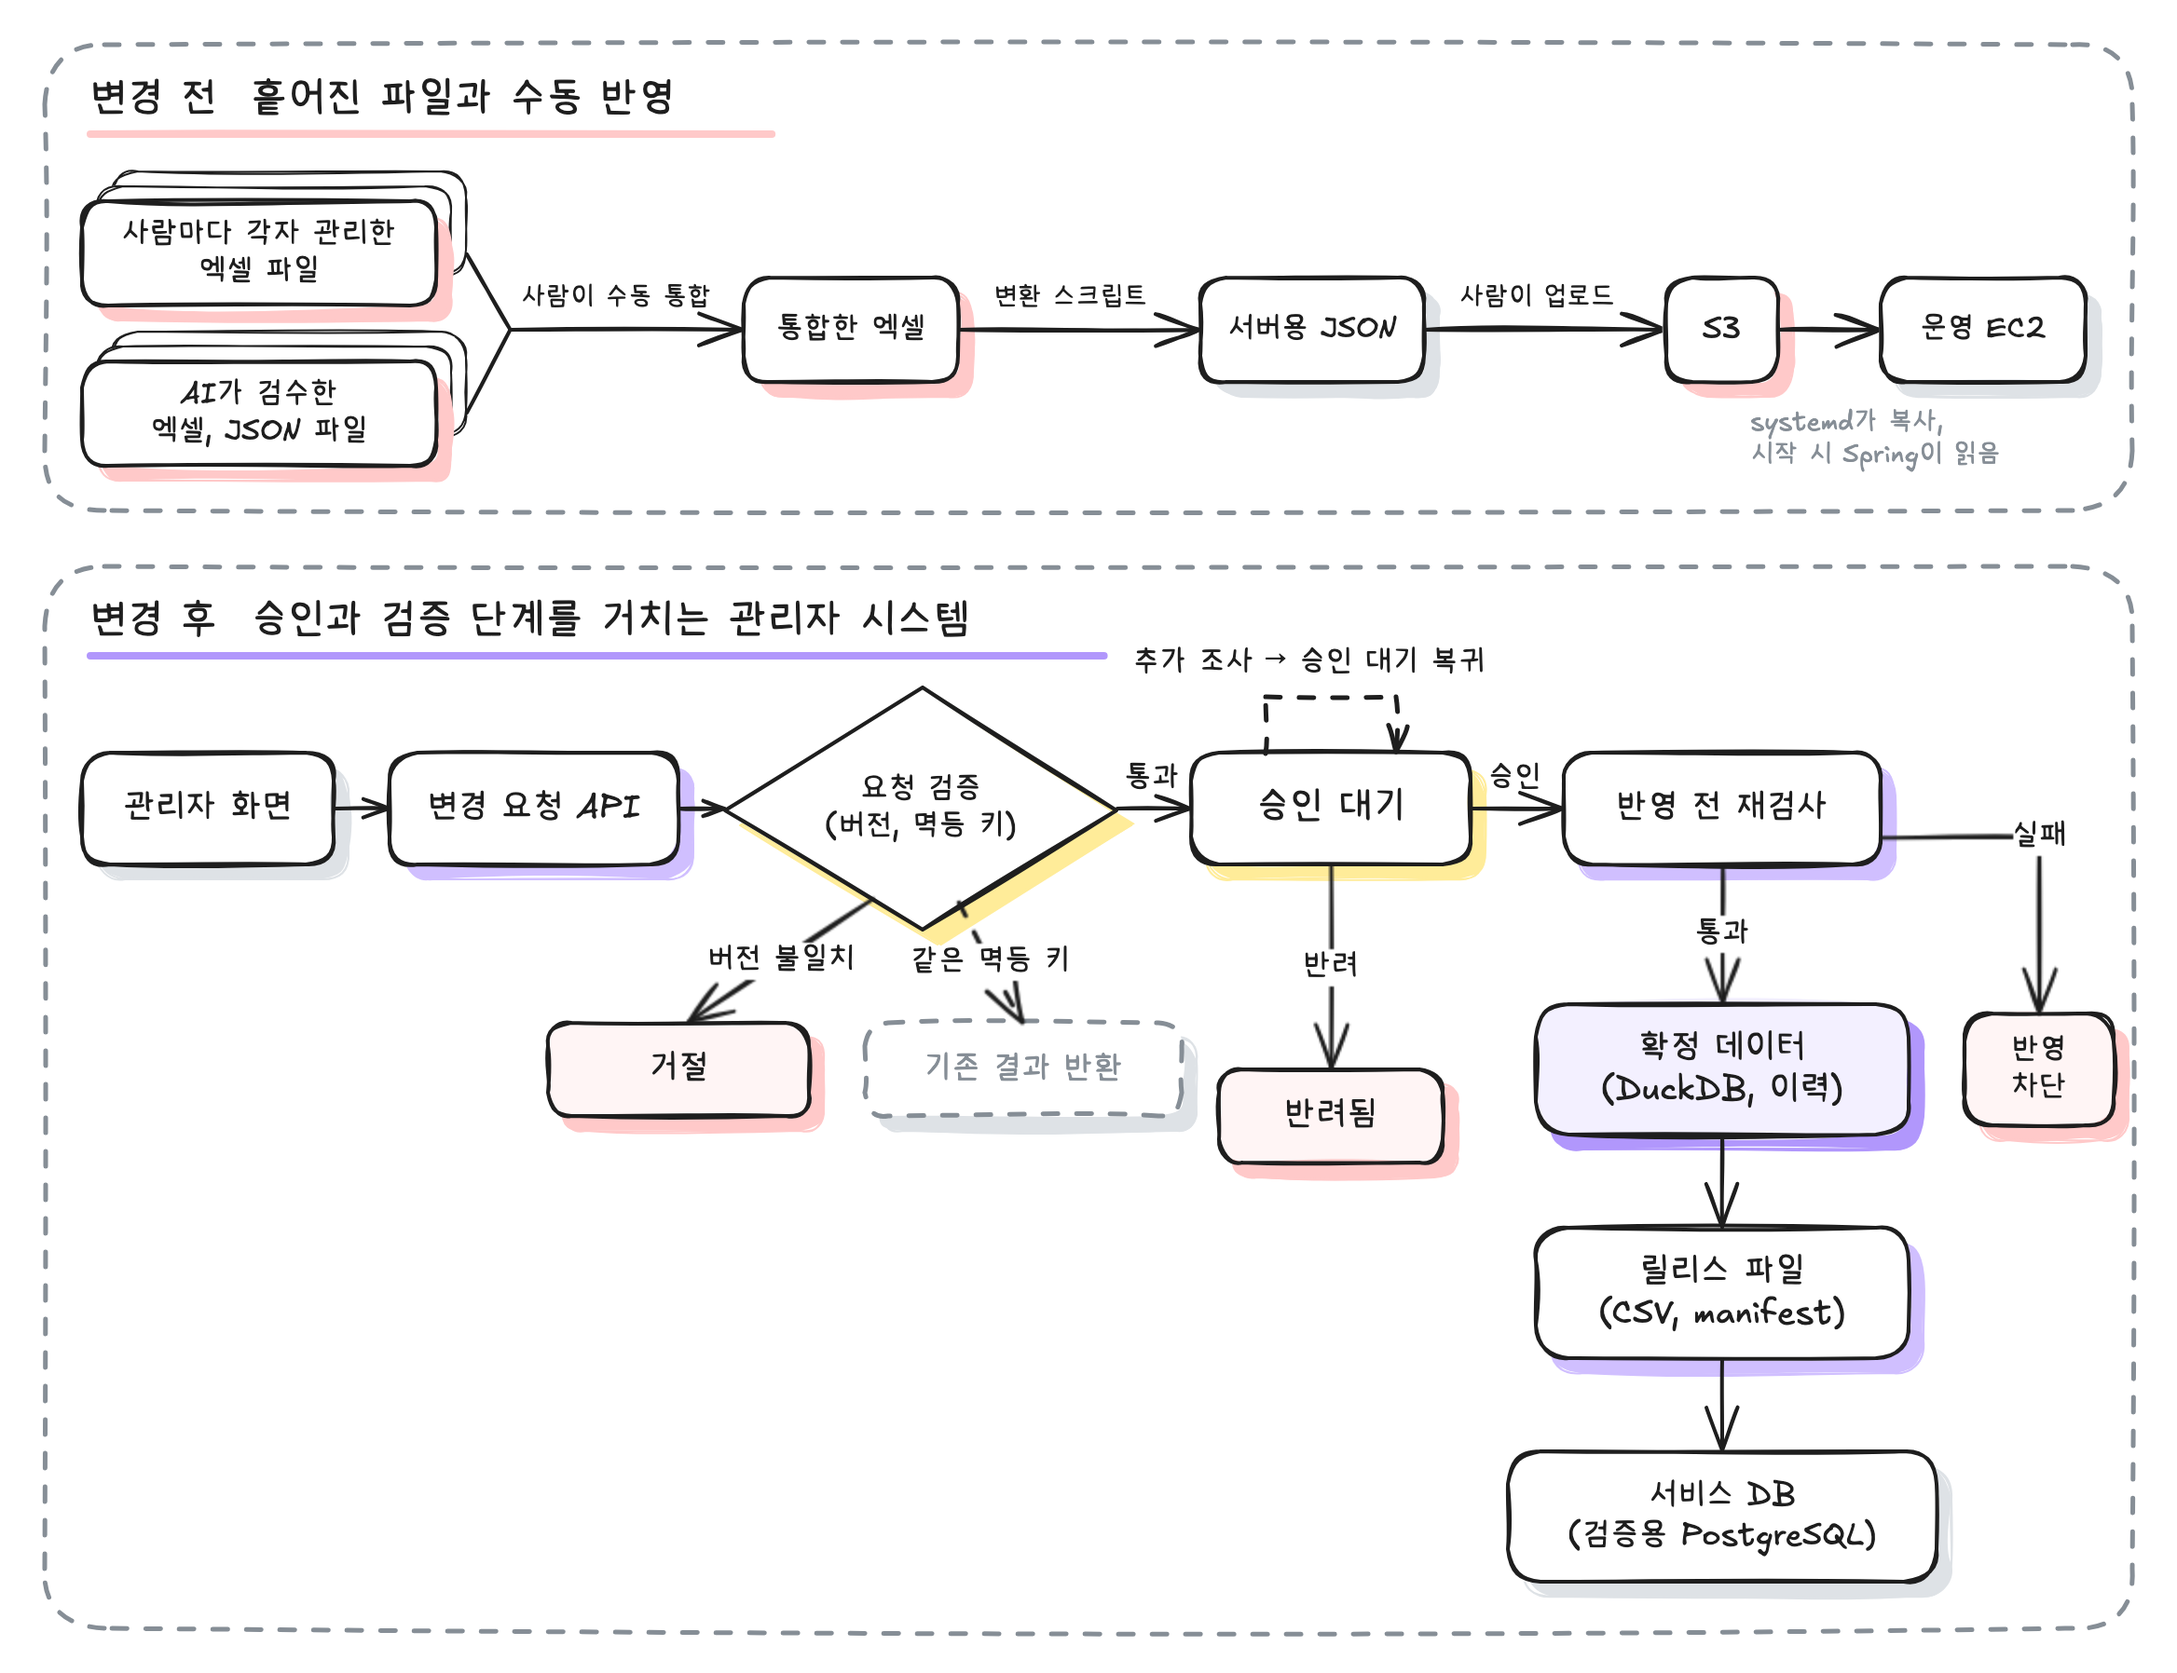
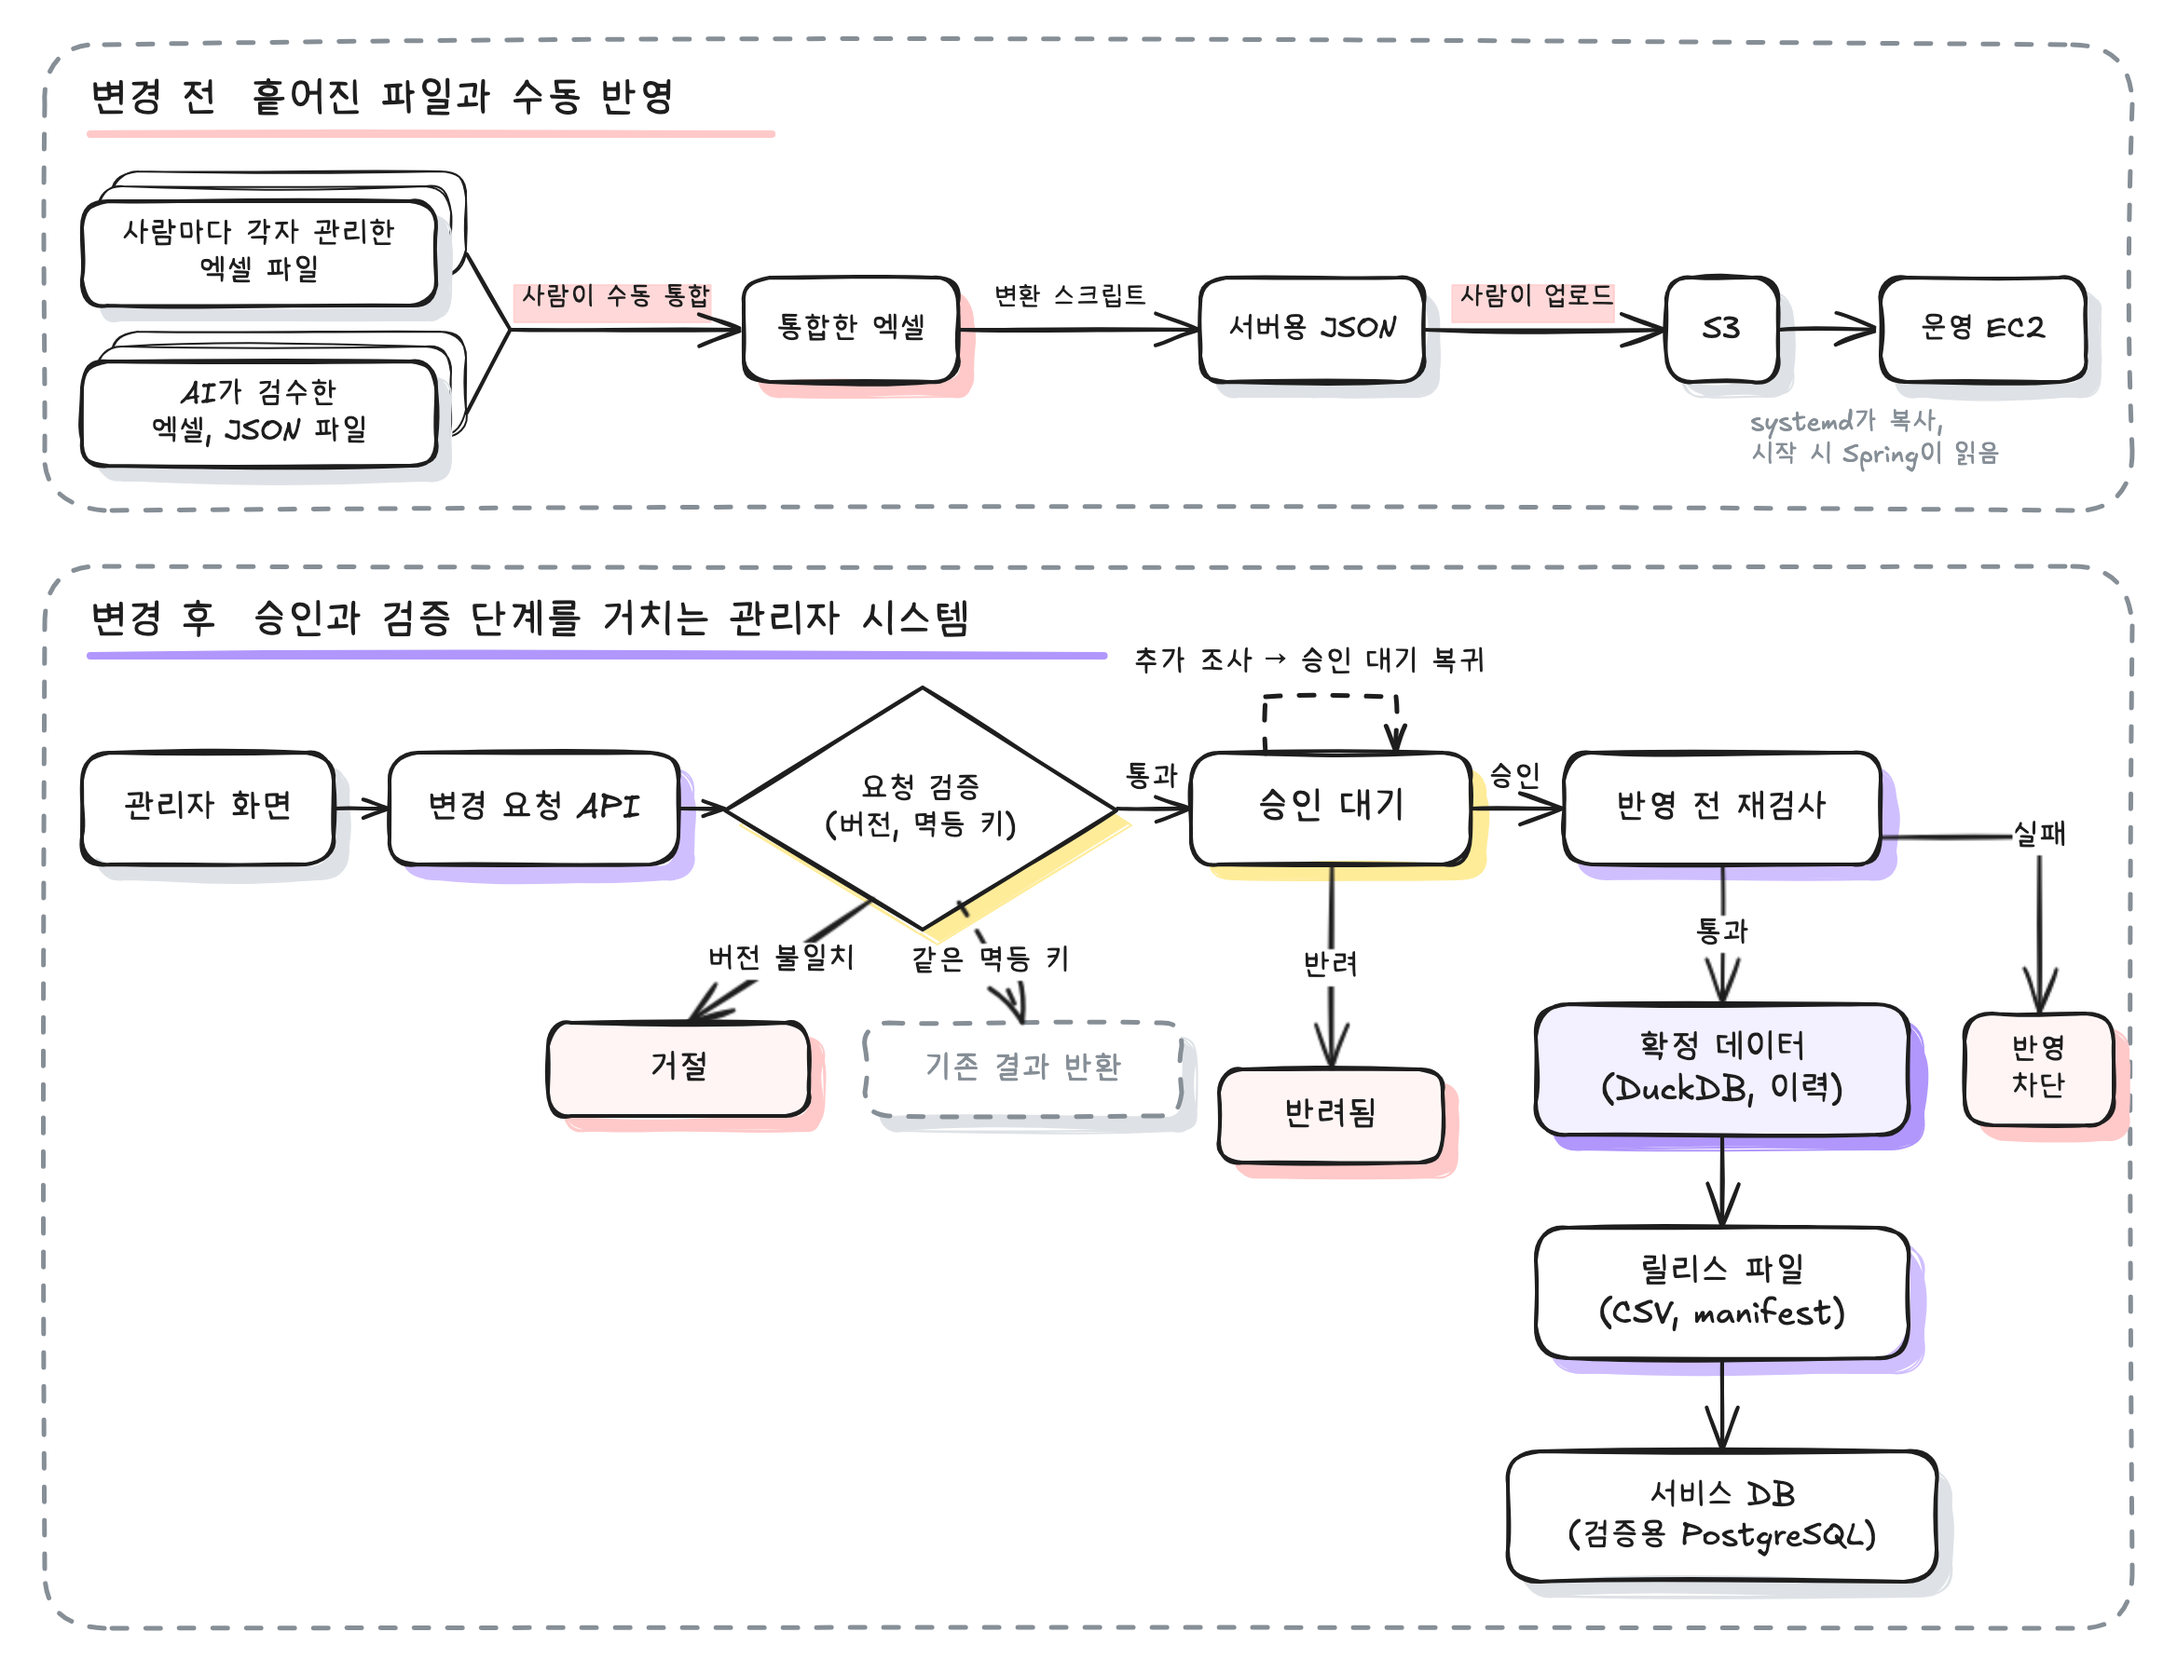
portfolio: 사례 01 변경 전 그림 강조를 수동 작업 주석으로 옮김

diff --git a/index.html b/index.html
@@ -56,8 +56,8 @@
   <h3 id="case-title-1">성분 데이터 관리 개선: 정적 파일 방식에서 승인 기반 관리자 시스템으로 전환</h3>
   <p class="case-deck">정적 파일 수동 관리로 생기던 데이터 불일치와 검증 없는 반영을 막기 위해 승인 기반 관리자 시스템을 구축했습니다. API 기반 검증과 승인 절차를 도입해, 검증된 데이터만 서비스 DB에 반영되는 구조를 마련했습니다.</p>
   <figure>
-    <div class="figure-heading"><p class="figure-title">관리 방식 변경 전후</p><a href="assets/diagrams/ingredient-admin.png?v=b90b3118" data-diagram aria-label="관리 방식 변경 전후 크게 보기">크게 보기 ↗</a></div>
-    <a class="diagram-link" href="assets/diagrams/ingredient-admin.png?v=b90b3118" data-diagram aria-label="관리 방식 변경 전후 이미지 확대"><img class="diagram-image" src="assets/diagrams/ingredient-admin.png?v=b90b3118" width="2336" height="1796" alt="변경 전에는 사람마다 각자 관리한 엑셀 파일과 AI가 검수한 엑셀, JSON 파일을 사람이 수동으로 통합하고, 통합한 엑셀을 변환 스크립트로 서버용 JSON으로 바꿔 사람이 S3에 올리면, 운영 EC2가 시작할 때 systemd가 복사하고 Spring이 읽었다. 변경 후에는 관리자 화면에서 변경 요청 API로 요청하면 요청 검증이 버전과 멱등 키를 확인해, 버전이 다르면 거절하고 같은 멱등 키면 기존 결과를 돌려준다. 통과한 요청은 승인 대기로 가서 반려되거나, 추가 조사 뒤 다시 대기하거나, 승인된다. 승인되면 반영 전 재검사를 거치고, 실패하면 반영을 막고 통과하면 확정 데이터(DuckDB, 이력)에 반영한 뒤 CSV와 manifest 릴리스 파일을 만들어 검증용 PostgreSQL 서비스 DB에 넣는다" loading="lazy" decoding="async"></a>
+    <div class="figure-heading"><p class="figure-title">관리 방식 변경 전후</p><a href="assets/diagrams/ingredient-admin.png?v=772bfeaa" data-diagram aria-label="관리 방식 변경 전후 크게 보기">크게 보기 ↗</a></div>
+    <a class="diagram-link" href="assets/diagrams/ingredient-admin.png?v=772bfeaa" data-diagram aria-label="관리 방식 변경 전후 이미지 확대"><img class="diagram-image" src="assets/diagrams/ingredient-admin.png?v=772bfeaa" width="2336" height="1796" alt="변경 전에는 사람마다 각자 관리한 엑셀 파일과 AI가 검수한 엑셀, JSON 파일을 사람이 수동으로 통합하고, 통합한 엑셀을 변환 스크립트로 서버용 JSON으로 바꿔 사람이 S3에 올리면, 운영 EC2가 시작할 때 systemd가 복사하고 Spring이 읽었다. 변경 후에는 관리자 화면에서 변경 요청 API로 요청하면 요청 검증이 버전과 멱등 키를 확인해, 버전이 다르면 거절하고 같은 멱등 키면 기존 결과를 돌려준다. 통과한 요청은 승인 대기로 가서 반려되거나, 추가 조사 뒤 다시 대기하거나, 승인된다. 승인되면 반영 전 재검사를 거치고, 실패하면 반영을 막고 통과하면 확정 데이터(DuckDB, 이력)에 반영한 뒤 CSV와 manifest 릴리스 파일을 만들어 검증용 PostgreSQL 서비스 DB에 넣는다" loading="lazy" decoding="async"></a>
   </figure>
   <div class="psr">
     <div>

diff --git a/scripts/excalidraw/ingredient-admin.py b/scripts/excalidraw/ingredient-admin.py
@@ -11,19 +11,29 @@ def stack(i, x, y, w, h, label):
         c.E.append({"type": "rectangle", "id": i + 'k' + k, "x": x + d, "y": y - d, "width": w, "height": h,
                     "backgroundColor": '#ffffff', "fillStyle": "solid", "strokeColor": INK, "strokeWidth": 1,
                     "roundness": {"type": 3}})
-    c.box(i, x, y, w, h, label, PINK, fs=16)
+    c.box(i, x, y, w, h, label, GRAY, fs=16)
+
+
+def hmsg(i, x1, x2, y, label, fs=14):
+    """형광펜처럼 글자 뒤에 연분홍 띠를 깐 화살표 라벨."""
+    tw = twidth(label, fs)
+    w = tw * 0.86 + 8
+    c.E.append({"type": "rectangle", "id": i + 'h', "x": (x1 + x2) / 2 - tw / 2 - 4, "y": y - 24, "width": w, "height": fs + 6,
+                "backgroundColor": PINK, "fillStyle": "solid", "strokeColor": PINK, "strokeWidth": 1, "opacity": 70,
+                "roughness": 0})
+    c.msg(i, x1, x2, y, label, fs=fs)
 
 
 stack('p1', 40, 104, 190, 56, '사람마다 각자 관리한\n엑셀 파일')
 stack('p2', 40, 190, 190, 56, 'AI가 검수한\n엑셀, JSON 파일')
 c.arrow('pj1', 246, 132, [[0, 0], [24, 41]], head=None)
 c.arrow('pj2', 246, 218, [[0, 0], [24, -45]], head=None)
-c.msg('pa1', 270, 395, 173, '사람이 수동 통합', fs=14)
+hmsg('pa1', 270, 395, 173, '사람이 수동 통합')
 c.box('p3', 395, 145, 115, 56, '통합한 엑셀', PINK, fs=16)
 c.msg('pa2', 510, 640, 173, '변환 스크립트', fs=14)
 c.box('p4', 640, 145, 120, 56, '서버용 JSON', GRAY, fs=16)
-c.msg('pa3', 760, 890, 173, '사람이 업로드', fs=14)
-c.box('p5', 890, 145, 60, 56, 'S3', PINK, fs=17)
+hmsg('pa3', 760, 890, 173, '사람이 업로드')
+c.box('p5', 890, 145, 60, 56, 'S3', GRAY, fs=17)
 c.arrow('pa4', 950, 173, [[0, 0], [55, 0]])
 c.box('p6', 1005, 145, 110, 56, '운영 EC2', GRAY, fs=16)
 c.text('p6n', 935, 214, 'systemd가 복사,\n시작 시 Spring이 읽음', 14, MUTED)
